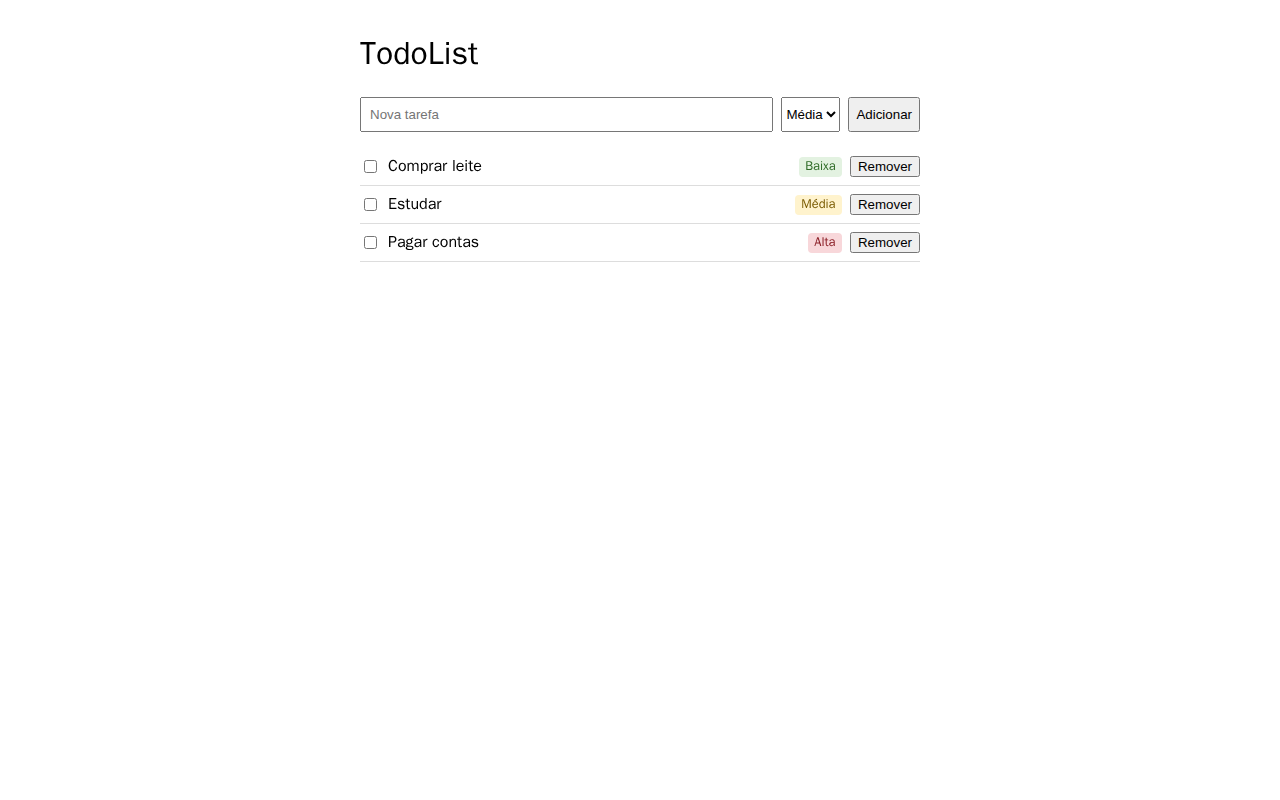
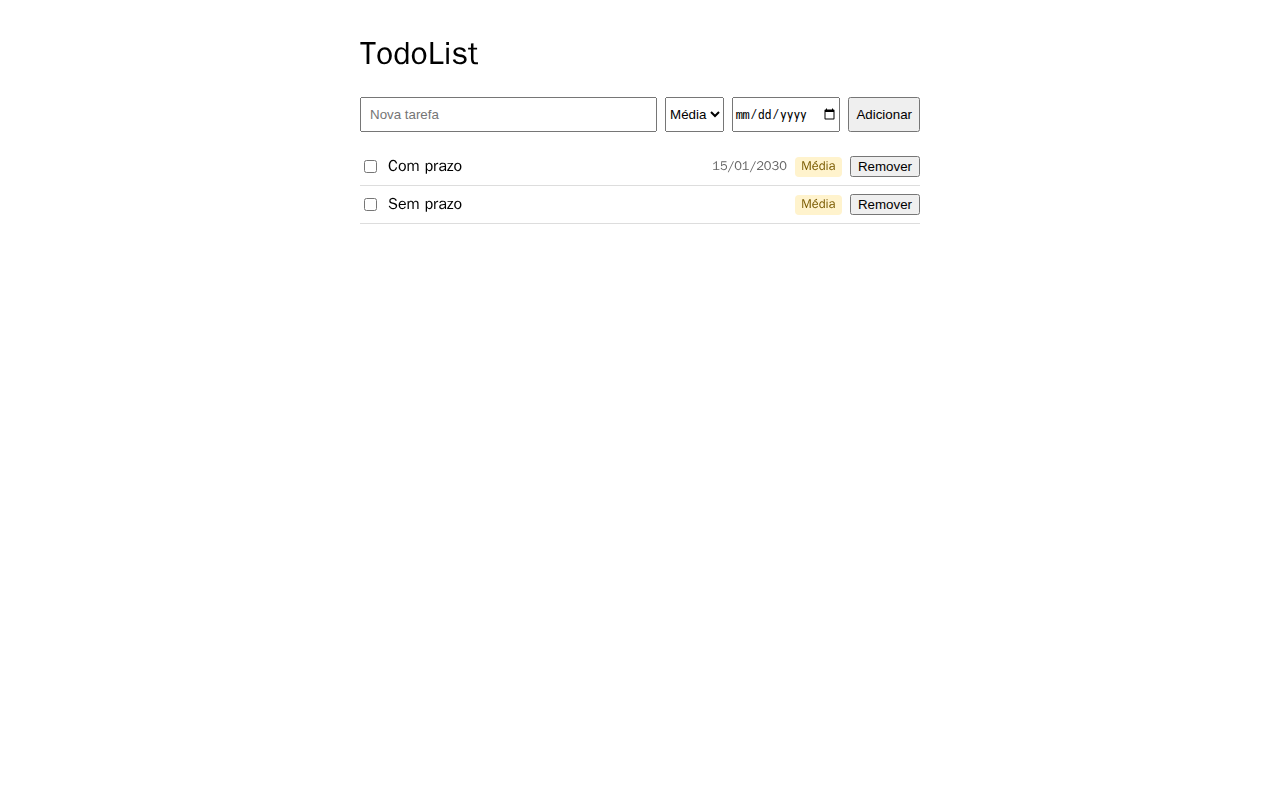
feat: card 1 - Data de vencimento na tarefa
Generated by agent-poc. Needs human review.

diff --git a/src/TodoList.Api/wwwroot/index.html b/src/TodoList.Api/wwwroot/index.html
@@ -12,6 +12,7 @@
     li { display: flex; align-items: center; gap: .5rem; padding: .5rem 0; border-bottom: 1px solid #ddd; }
     li.done .title { text-decoration: line-through; color: #888; }
     .title { flex: 1; }
+    .due { font-size: .8rem; color: #666; }
     .priority { font-size: .8rem; padding: .1rem .4rem; border-radius: 4px; }
     .priority.baixa { background: #e3f2e1; color: #2e6b27; }
     .priority.media { background: #fff3cd; color: #7a5b00; }
@@ -27,6 +28,7 @@
       <option value="media" selected>Média</option>
       <option value="alta">Alta</option>
     </select>
+    <input id="dueDate" type="date" aria-label="Data de vencimento">
     <button type="submit">Adicionar</button>
   </form>
   <ul id="list"></ul>
@@ -52,6 +54,10 @@
         title.className = 'title';
         title.textContent = t.title;
 
+        const due = document.createElement('span');
+        due.className = 'due';
+        if (t.dueDate) due.textContent = t.dueDate.split('-').reverse().join('/');
+
         const priority = document.createElement('span');
         priority.className = `priority ${t.priority}`;
         priority.textContent = priorityLabels[t.priority] ?? t.priority;
@@ -60,7 +66,7 @@
         del.textContent = 'Remover';
         del.onclick = async () => { await fetch(`/api/todos/${t.id}`, { method: 'DELETE' }); load(); };
 
-        li.append(cb, title, priority, del);
+        li.append(cb, title, ...(t.dueDate ? [due] : []), priority, del);
         list.append(li);
       }
     }
@@ -68,12 +74,18 @@
     document.getElementById('form').onsubmit = async (e) => {
       e.preventDefault();
       const input = document.getElementById('title');
+      const dueDate = document.getElementById('dueDate');
       await fetch('/api/todos', {
         method: 'POST',
         headers: { 'Content-Type': 'application/json' },
-        body: JSON.stringify({ title: input.value, priority: document.getElementById('priority').value })
+        body: JSON.stringify({
+          title: input.value,
+          priority: document.getElementById('priority').value,
+          dueDate: dueDate.value || null
+        })
       });
       input.value = '';
+      dueDate.value = '';
       load();
     };
 

diff --git a/tests/TodoList.Tests/TodoApiTests.cs b/tests/TodoList.Tests/TodoApiTests.cs
@@ -90,6 +90,56 @@ public class TodoApiTests(WebApplicationFactory<Program> factory) : IClassFixtur
     }
 
     [Fact]
+    public async Task Create_WithDueDate_StoresDueDate()
+    {
+        var response = await _client.PostAsJsonAsync("/api/todos", new { title = "Entregar relatório", dueDate = "2030-01-15" });
+
+        Assert.Equal(HttpStatusCode.Created, response.StatusCode);
+        var item = await response.Content.ReadFromJsonAsync<TodoItem>();
+        Assert.Equal(new DateOnly(2030, 1, 15), item!.DueDate);
+    }
+
+    [Fact]
+    public async Task Create_WithoutDueDate_HasNullDueDate()
+    {
+        var item = await (await _client.PostAsJsonAsync("/api/todos", new { title = "Sem prazo" }))
+            .Content.ReadFromJsonAsync<TodoItem>();
+
+        Assert.Null(item!.DueDate);
+    }
+
+    [Fact]
+    public async Task Create_WithInvalidDueDate_ReturnsBadRequest()
+    {
+        var response = await _client.PostAsJsonAsync("/api/todos", new { title = "Prazo ruim", dueDate = "abc" });
+
+        Assert.Equal(HttpStatusCode.BadRequest, response.StatusCode);
+    }
+
+    [Fact]
+    public async Task List_IncludesDueDate()
+    {
+        var created = await (await _client.PostAsJsonAsync("/api/todos", new { title = "Pagar IPTU", dueDate = "2030-02-20" }))
+            .Content.ReadFromJsonAsync<TodoItem>();
+
+        var todos = await _client.GetFromJsonAsync<List<TodoItem>>("/api/todos");
+
+        Assert.Equal(new DateOnly(2030, 2, 20), todos!.Single(t => t.Id == created!.Id).DueDate);
+    }
+
+    [Fact]
+    public async Task Toggle_KeepsDueDate()
+    {
+        var created = await (await _client.PostAsJsonAsync("/api/todos", new { title = "Renovar CNH", dueDate = "2030-03-10" }))
+            .Content.ReadFromJsonAsync<TodoItem>();
+
+        var toggled = await (await _client.PutAsync($"/api/todos/{created!.Id}/toggle", null))
+            .Content.ReadFromJsonAsync<TodoItem>();
+
+        Assert.Equal(new DateOnly(2030, 3, 10), toggled!.DueDate);
+    }
+
+    [Fact]
     public async Task Toggle_FlipsDone()
     {
         var created = await (await _client.PostAsJsonAsync("/api/todos", new { title = "Estudar" }))

diff --git a/src/TodoList.Api/Program.cs b/src/TodoList.Api/Program.cs
@@ -22,7 +22,7 @@ app.MapPost("/api/todos", (CreateTodo input) =>
         return Results.BadRequest(new { error = "Priority must be baixa, media or alta." });
 
     var id = Interlocked.Increment(ref nextId);
-    var item = new TodoItem(id, input.Title.Trim(), false, priority);
+    var item = new TodoItem(id, input.Title.Trim(), false, priority, input.DueDate);
     items[id] = item;
     return Results.Created($"/api/todos/{id}", item);
 });
@@ -42,7 +42,7 @@ app.MapDelete("/api/todos/{id:int}", (int id) =>
 
 app.Run();
 
-public record TodoItem(int Id, string Title, bool Done, string Priority);
-public record CreateTodo(string Title, string? Priority = null);
+public record TodoItem(int Id, string Title, bool Done, string Priority, DateOnly? DueDate = null);
+public record CreateTodo(string Title, string? Priority = null, DateOnly? DueDate = null);
 
 public partial class Program { }
